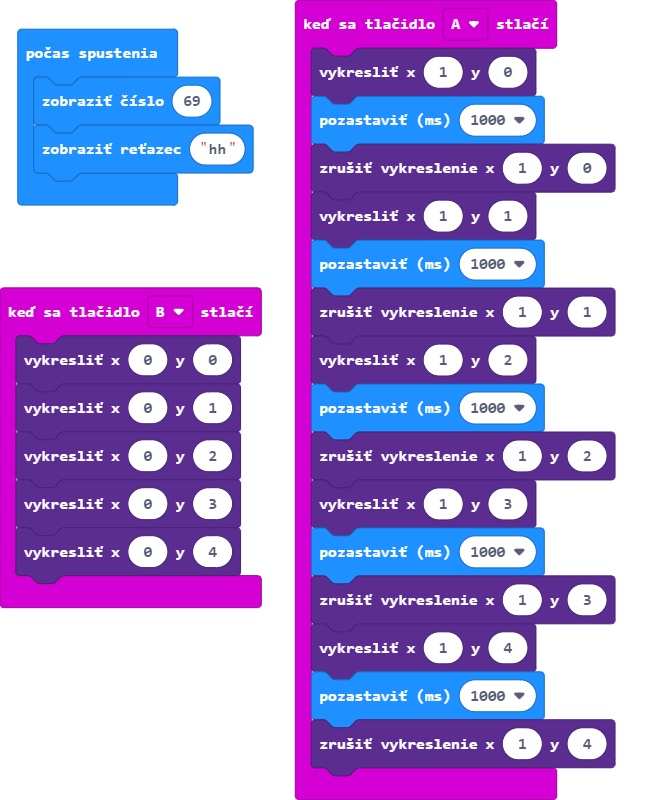
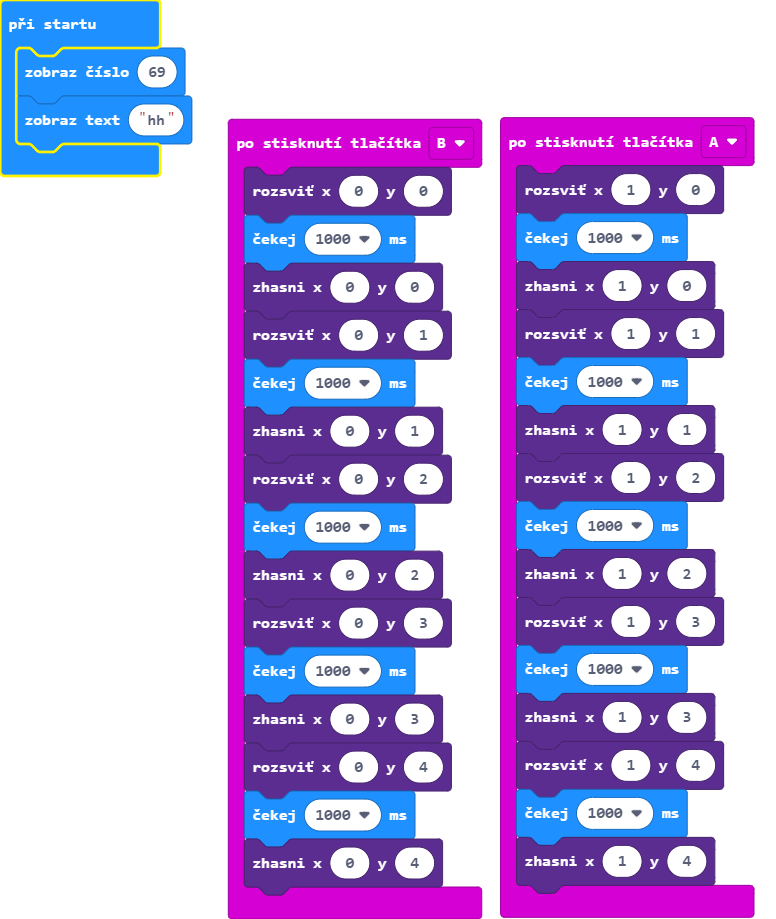
Aktualizovat main.blocks, main.ts

diff --git a/main.ts b/main.ts
@@ -17,10 +17,20 @@ input.onButtonPressed(Button.A, function () {
 })
 input.onButtonPressed(Button.B, function () {
     led.plot(0, 0)
+    basic.pause(1000)
+    led.unplot(0, 0)
     led.plot(0, 1)
+    basic.pause(1000)
+    led.unplot(0, 1)
     led.plot(0, 2)
+    basic.pause(1000)
+    led.unplot(0, 2)
     led.plot(0, 3)
+    basic.pause(1000)
+    led.unplot(0, 3)
     led.plot(0, 4)
+    basic.pause(1000)
+    led.unplot(0, 4)
 })
 basic.showNumber(69)
 basic.showString("hh")
